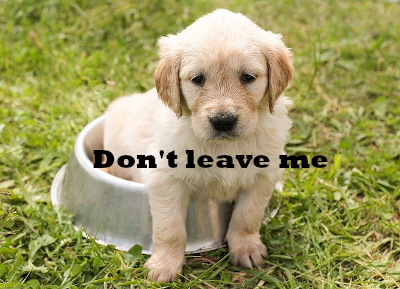
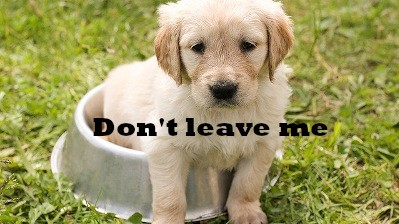
add donleaveme image

diff --git a/apps/eternal/src/app/holidays/holiday-card/holiday-card.component.html b/apps/eternal/src/app/holidays/holiday-card/holiday-card.component.html
@@ -9,7 +9,7 @@
     <mat-card-subtitle class="h-8">{{ holiday.teaser }}</mat-card-subtitle>
   </mat-card-header>
   <figure>
-    <img [alt]="holiday.title" [src]="holiday.imageUrl" class="max-w-none" />
+    <img [alt]="holiday.title" [src]="holiday.imageUrl" appDontLeaveMe class="max-w-none" />
     <div class="badge-overlay">
       <span *ngIf="holiday.onSale" class="top-left badge">On Sale</span>
       <span *ngIf="holiday.soldOut" class="middle-full badge">Sold out</span>
